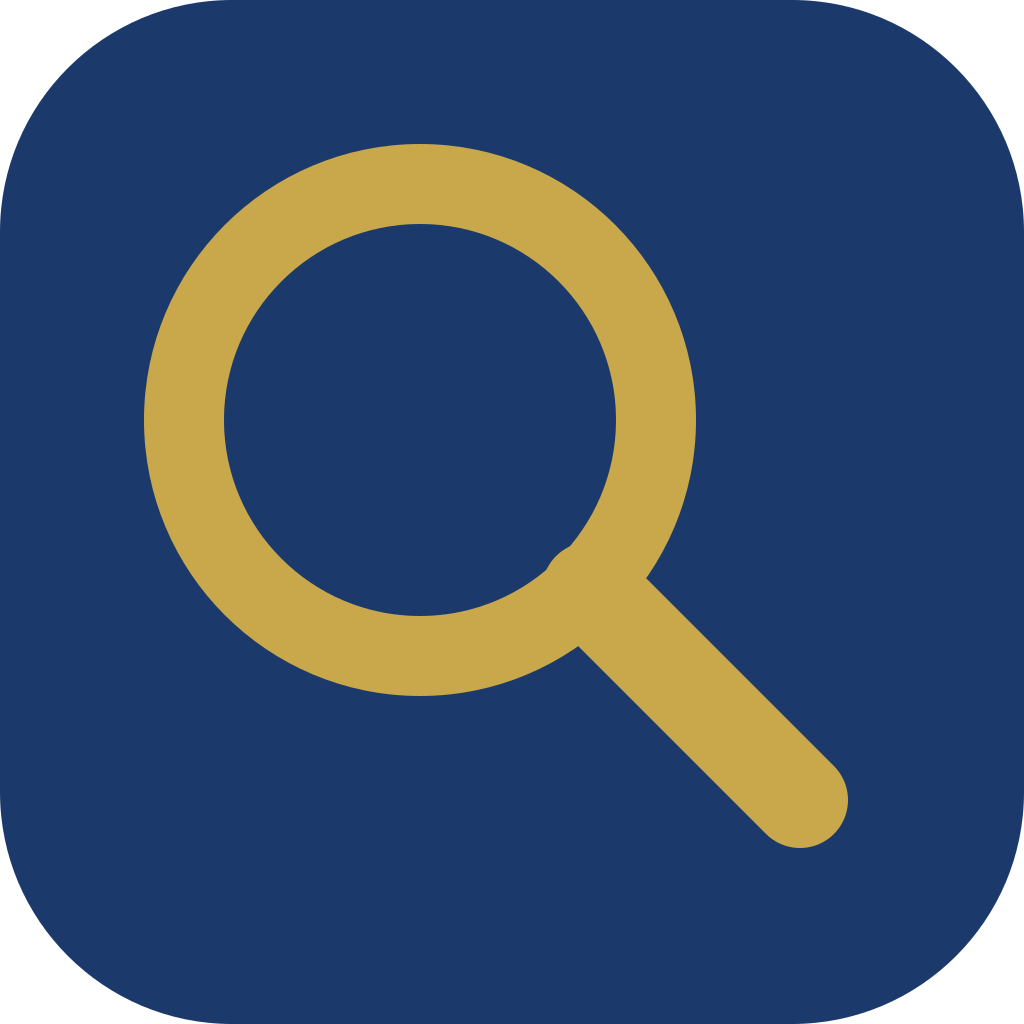
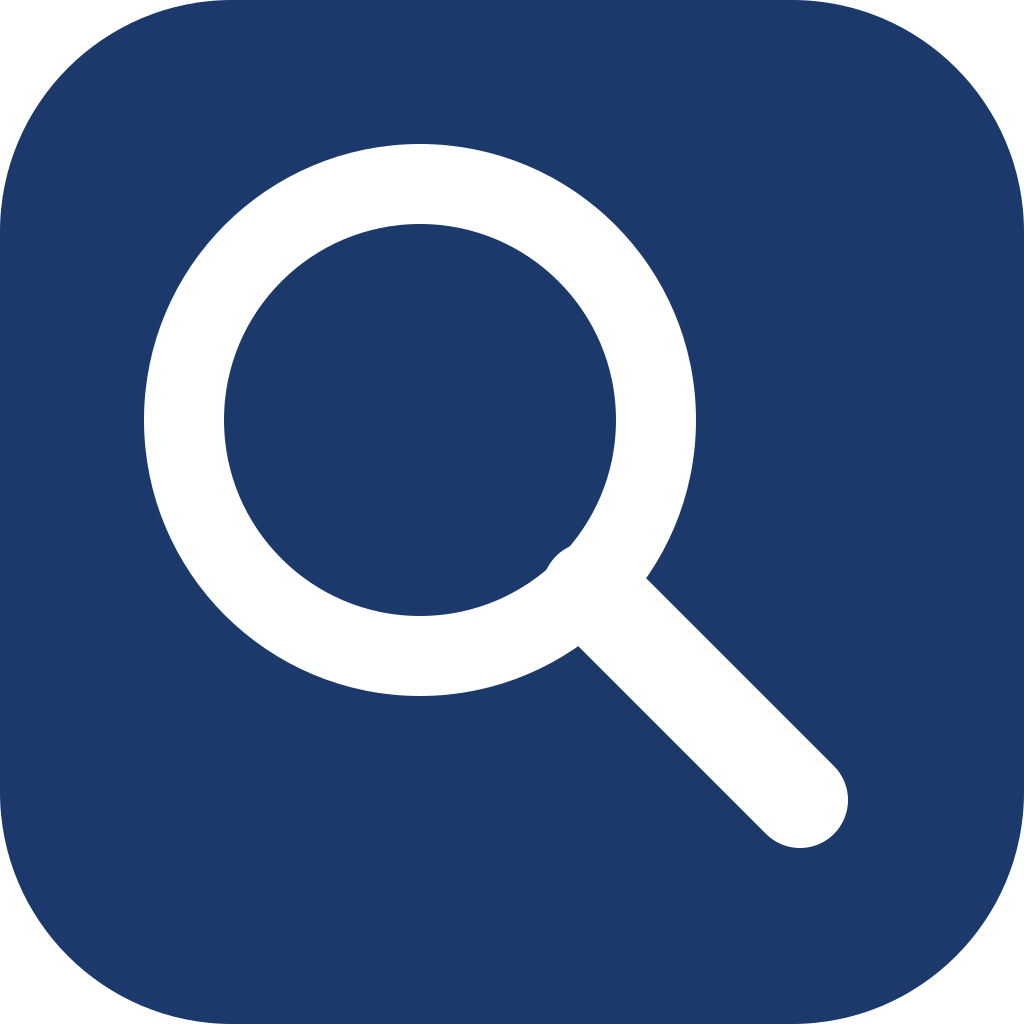
v2.18.3: Magnify glyph recolored gold → white
Home-screen / PWA icon and in-app MagnifyLogo both show a white magnifier
on the navy background (was gold). Aligns with the suite rule:

  default = brand color + white glyph
  iOS Tinted / sleep mode = gold-on-black via iOS auto-tint

Updated: assets/icon.png, adaptive-icon, splash-icon, favicon,
icon-master.svg, components/icons/MagnifyLogo.tsx.

Changed region(s): [[0.125, 0.125, 0.8438, 0.8438]]

diff --git a/components/icons/MagnifyLogo.tsx b/components/icons/MagnifyLogo.tsx
@@ -10,19 +10,21 @@ interface Props {
 }
 
 /**
- * Magnify brand mark. Matches the v2.18.1 home-screen / PWA icon:
+ * Magnify brand mark. Matches the v2.18.3 home-screen / PWA icon:
  *   - rounded square in Magnify navy (Colors.primary = #1B3A6B, the
  *     Gathered "M" chip), or white in `inverse`
- *   - large gold magnifying glass centered, no letter
+ *   - large white magnifying glass centered, no letter
  *
- * The white-"M" letterform that used to live here is gone; the suite-wide
- * convention is now "brand color + per-app gold accent shape," with the
- * "Magnify" wordmark appearing as adjacent text wherever the logo is used.
+ * The default look is brand color + white glyph (was gold). Sleep / iOS
+ * Tinted mode auto-renders white-on-color as gold-on-black, which is the
+ * appearance the user wants there; keeping the source glyph white instead
+ * of gold gives both modes the right color story.
  */
 export function MagnifyLogo({ size = 44, variant = 'mark', style }: Props) {
   const isInverse = variant === 'inverse';
   const containerColor = isInverse ? Colors.white : Colors.primary;
-  const accent = Colors.accent;
+  // Glyph color: white over the navy container, navy over the inverse white container.
+  const accent = isInverse ? Colors.primary : Colors.white;
   // Scale the glyph generously so the magnifier dominates the square — the
   // same proportion the rasterized home-screen icon uses.
   const glyph = size * 0.78;

diff --git a/constants/changelog.ts b/constants/changelog.ts
@@ -9,6 +9,14 @@ export interface ChangelogEntry {
 // To add release notes manually, add an entry to the array below.
 export const CHANGELOG: ChangelogEntry[] = [
   {
+    version: '2.18.3',
+    date: '2026-05-19',
+    enhancements: [
+      'Magnify glyph recolored from gold to white. The navy background is unchanged; the magnifying glass on the home-screen icon and the in-app MagnifyLogo are now white instead of gold. Aligns with the suite-wide rule that default icons are brand color + white glyph; iOS Tinted (sleep) mode then renders white-on-color as the gold-on-black look the user wants there.',
+    ],
+    bugFixes: [],
+  },
+  {
     version: '2.18.2',
     date: '2026-05-19',
     enhancements: [
